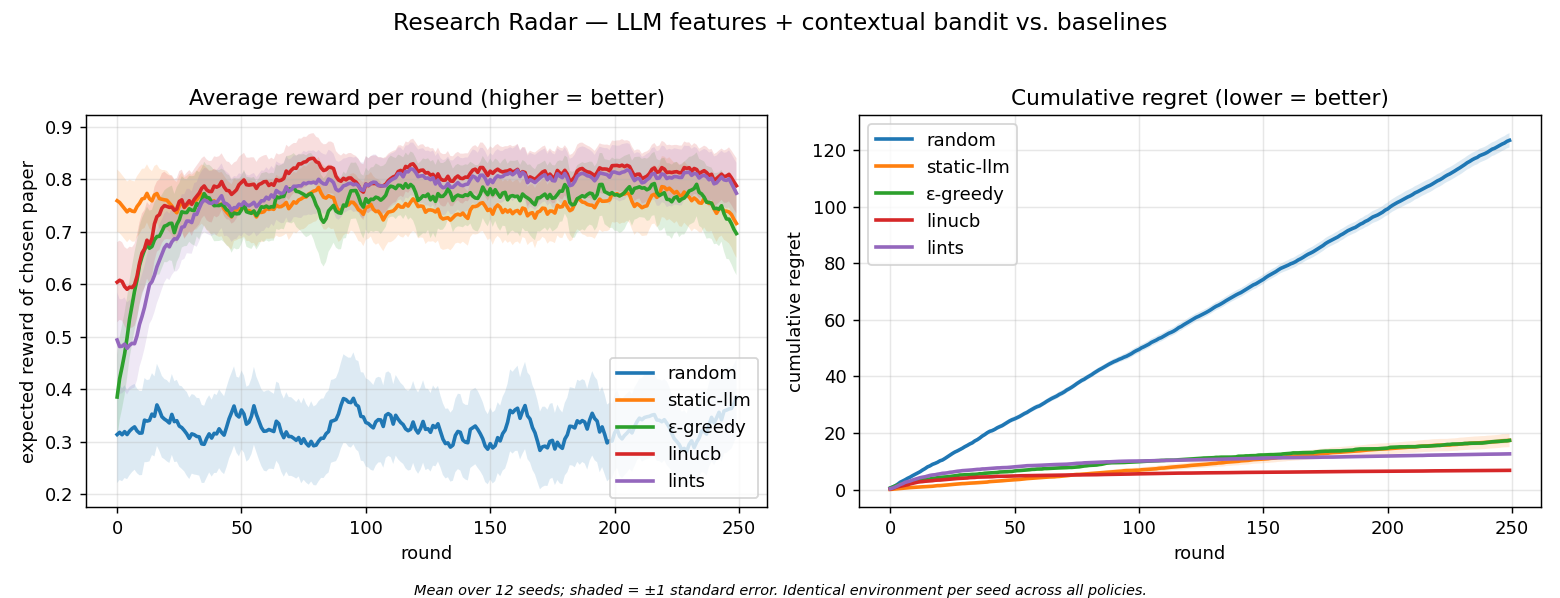
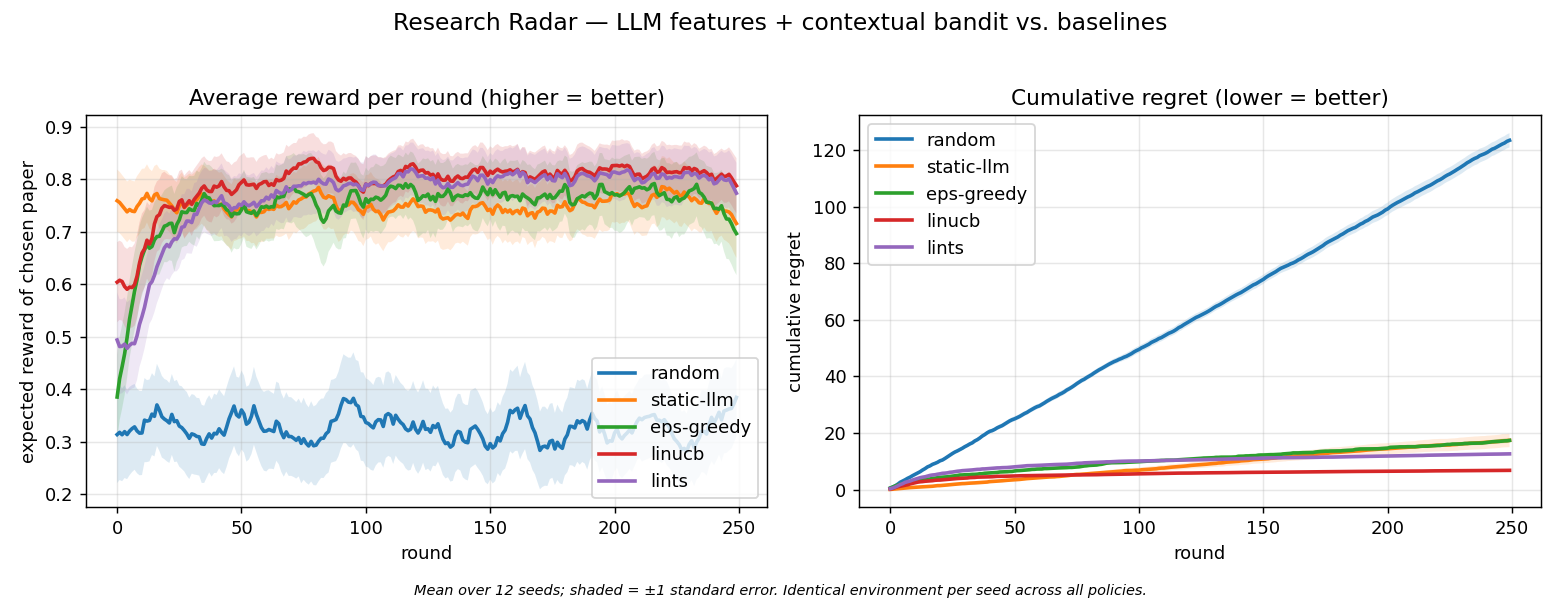
fix: ASCII-safe CLI/terminal output to avoid mojibake
Replaced decorative Unicode in all PRINTED strings with ASCII so screenshots/recordings render cleanly in any terminal/font: box-drawing (-> '='), block bars (-> '#'), middot separators (-> '|'), Greek alpha/epsilon in policy names (-> 'alpha'/'eps'), ellipsis (-> '...'), em-dashes and theta in headers. Math symbols are kept only in source docstrings + the matplotlib figure (rendered as an image), which display fine.

Changed region(s): [[0.3692, 0.602, 0.4923, 0.8127], [0.5846, 0.301, 0.6769, 0.3612]]

diff --git a/research_radar/cli.py b/research_radar/cli.py
@@ -20,7 +20,7 @@ from research_radar.agent import Recommendation, ResearchRadarAgent
 from research_radar.config import load_config
 from research_radar.safety.guards import confirm_action
 
-BAR = "─" * 78
+BAR = "=" * 78
 
 
 def _build_agent(args) -> ResearchRadarAgent:
@@ -42,7 +42,7 @@ def _print_rec(r: Recommendation) -> None:
     print(f"    summary: {r.features.summary}")
     print(f"    link   : {r.paper.abs_url or 'https://arxiv.org/abs/' + r.paper.arxiv_id}")
     if r.warnings:
-        print(f"    ⚠ safety: {'; '.join(r.warnings)}")
+        print(f"    [!] safety: {'; '.join(r.warnings)}")
     print()
 
 
@@ -60,7 +60,7 @@ def _cmd_recommend(args) -> int:
         agent.set_interests(args.interests)
     query = args.query or agent.cfg["perception"]["default_query"]
     print(BAR)
-    print(f"Research Radar · backend={agent.client.name} · policy={agent.bandit.name} · "
+    print(f"Research Radar | backend={agent.client.name} | policy={agent.bandit.name} | "
           f"interests={agent.interests or '(none set)'}")
     print(f"Query: {query!r}")
     print(BAR)
@@ -84,7 +84,7 @@ def _cmd_feedback(args) -> int:
         return 1
     print(f"Recorded '{args.action}' on {args.arxiv_id} (reward={reward:.2f}). Policy updated & saved.")
     s = agent.stats()
-    print(f"Interactions so far: {s['interactions']} · avg reward {s['avg_reward']:.3f}")
+    print(f"Interactions so far: {s['interactions']} | avg reward {s['avg_reward']:.3f}")
     return 0
 
 
@@ -93,20 +93,20 @@ def _print_weights(agent: ResearchRadarAgent, top: int = 8) -> None:
     if not weights:
         return
     scale = max((abs(w) for _, w in weights), default=1.0) or 1.0
-    print("Learned topic preferences (θ):")
+    print("Learned topic preferences (theta):")
     for topic, w in weights[:top]:
         bars = int(round(abs(w) / scale * 24))
         sign = "+" if w >= 0 else "-"
-        print(f"  {topic:<24} {sign}{abs(w):.3f} {'█' * bars}")
+        print(f"  {topic:<24} {sign}{abs(w):.3f} {'#' * bars}")
 
 
 def _cmd_stats(args) -> int:
     agent = _build_agent(args)
     s = agent.stats()
     print(BAR)
-    print(f"backend={s['llm_backend']} · policy={s['bandit']}")
-    print(f"interactions={s['interactions']} · avg_reward={s['avg_reward']:.3f} · "
-          f"seen={s['seen']} · bias={s['bias']:+.3f}")
+    print(f"backend={s['llm_backend']} | policy={s['bandit']}")
+    print(f"interactions={s['interactions']} | avg_reward={s['avg_reward']:.3f} | "
+          f"seen={s['seen']} | bias={s['bias']:+.3f}")
     print(f"by_action={s['by_action']}")
     print(BAR)
     _print_weights(agent)
@@ -123,8 +123,8 @@ def _cmd_demo(args) -> int:
     query = args.query or "reinforcement learning language model agent"
 
     print(BAR)
-    print("RESEARCH RADAR — scripted demo")
-    print(f"backend={agent.client.name} · policy={agent.bandit.name}")
+    print("RESEARCH RADAR - scripted demo")
+    print(f"backend={agent.client.name} | policy={agent.bandit.name}")
     print(f"interests={interests}")
     print(BAR)
 
@@ -139,7 +139,7 @@ def _cmd_demo(args) -> int:
     for r in recs:
         action = "save" if (set(r.top_topics()) & liked) else "skip"
         reward = agent.learn(r.paper.arxiv_id, action)
-        print(f"  {action:<5} {r.paper.arxiv_id}  (reward {reward:.1f})  {r.paper.title[:54]}…")
+        print(f"  {action:<5} {r.paper.arxiv_id}  (reward {reward:.1f})  {r.paper.title[:54]}...")
 
     print("\n[INTROSPECT] the agent has updated its preferences:\n")
     _print_weights(agent)
@@ -150,7 +150,7 @@ def _cmd_demo(args) -> int:
         for r in recs2:
             _print_rec(r)
     else:
-        print("  (offline cache exhausted — in live mode arXiv returns fresh papers here)")
+        print("  (offline cache exhausted - in live mode arXiv returns fresh papers here)")
     print(BAR)
     print("Demo complete. Run `python experiments/run_learning_curve.py` for the RL evaluation.")
     return 0
@@ -167,7 +167,7 @@ def _cmd_reset(args) -> int:
     if not confirm_action(f"This permanently deletes learned preferences & history at {path}.",
                           require_confirmation=agent.safety.get("require_confirmation", True),
                           auto_yes=args.yes):
-        print("Aborted — nothing was deleted.")
+        print("Aborted - nothing was deleted.")
         return 1
     path.unlink()
     print(f"Reset complete: deleted {path}.")

diff --git a/experiments/run_learning_curve.py b/experiments/run_learning_curve.py
@@ -32,7 +32,7 @@ from research_radar.decision.bandit import (  # noqa: E402
 from research_radar.simulator import make_synthetic_pool, run_episode, SimulatedUser  # noqa: E402
 
 # Plot order / colours kept stable so the figure reads the same every run.
-METHODS = ["random", "static-llm", "ε-greedy", "linucb", "lints"]
+METHODS = ["random", "static-llm", "eps-greedy", "linucb", "lints"]
 
 
 def _build(method: str, d: int, bcfg: dict, guess: np.ndarray, seed: int):
@@ -40,7 +40,7 @@ def _build(method: str, d: int, bcfg: dict, guess: np.ndarray, seed: int):
         return RandomPolicy(d, seed=seed)
     if method == "static-llm":
         return StaticLLMPolicy(guess)
-    if method == "ε-greedy":
+    if method == "eps-greedy":
         return EpsilonGreedy(d, epsilon=0.1, lam=bcfg["lam"], seed=seed)
     if method == "linucb":
         return LinUCB(d, alpha=bcfg["alpha"], lam=bcfg["lam"])

diff --git a/research_radar/decision/bandit.py b/research_radar/decision/bandit.py
@@ -86,7 +86,7 @@ class LinUCB(BanditPolicy):
     def __init__(self, d: int, alpha: float = 1.0, lam: float = 1.0) -> None:
         super().__init__(d, lam)
         self.alpha = float(alpha)
-        self.name = f"linucb(α={alpha:g})" if alpha > 0 else "greedy"
+        self.name = f"linucb(alpha={alpha:g})" if alpha > 0 else "greedy"
 
     def evaluate(self, X: np.ndarray) -> Evaluation:
         X = np.asarray(X, dtype=float)
@@ -123,7 +123,7 @@ class EpsilonGreedy(BanditPolicy):
         super().__init__(d, lam)
         self.epsilon = float(epsilon)
         self.rng = np.random.default_rng(seed)
-        self.name = f"ε-greedy(ε={epsilon:g})"
+        self.name = f"eps-greedy(eps={epsilon:g})"
 
     def evaluate(self, X: np.ndarray) -> Evaluation:
         X = np.asarray(X, dtype=float)

diff --git a/research_radar/reasoning/encoder.py b/research_radar/reasoning/encoder.py
@@ -45,7 +45,7 @@ def _first_sentences(text: str, n: int = 2, limit: int = 240) -> str:
     """Extractive fallback summary — guaranteed grounded because it's copied verbatim."""
     sentences = re.split(r"(?<=[.!?])\s+", text.strip())
     out = " ".join(sentences[:n]).strip()
-    return (out[:limit] + "…") if len(out) > limit else out
+    return (out[:limit] + "...") if len(out) > limit else out
 
 
 class PaperEncoder: